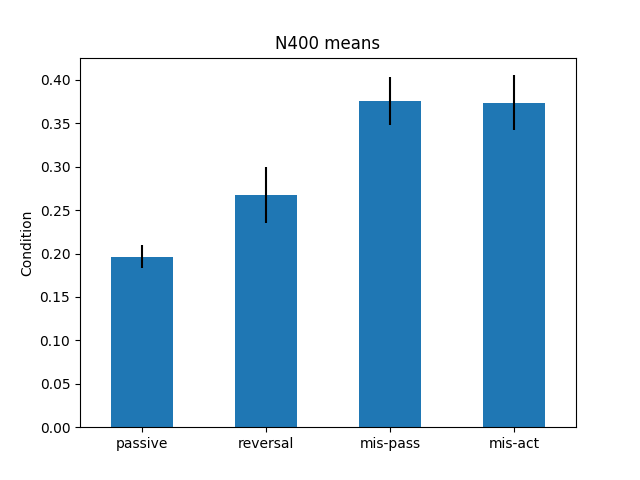
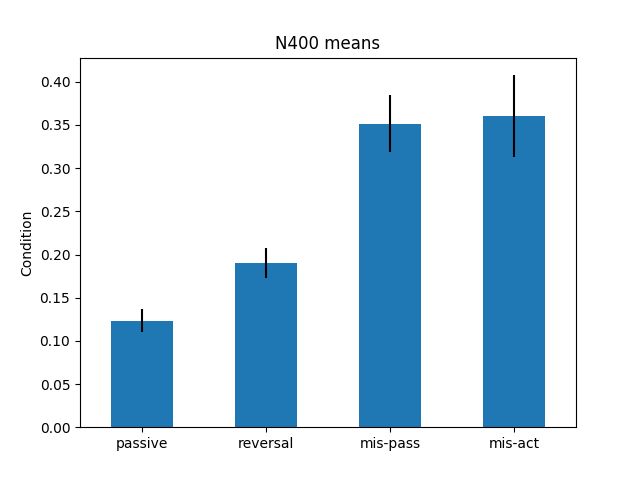
add 3a updated plots

diff --git a/brouwer_sim.py b/brouwer_sim.py
@@ -79,7 +79,7 @@ def plot_means(meandict,sedict,title,filestr,modelid):
     plt.savefig('plots/%s-%s.png'%(filestr,modelid))
     
 
-modelID = '3c'
+modelID = '3a'
 
 print 'Loading variables ...'
 with open('settings/settings%s'%modelID) as settings: trainingsuf,dict,binary,context_size,retrieval_size = pickle.load(settings)
